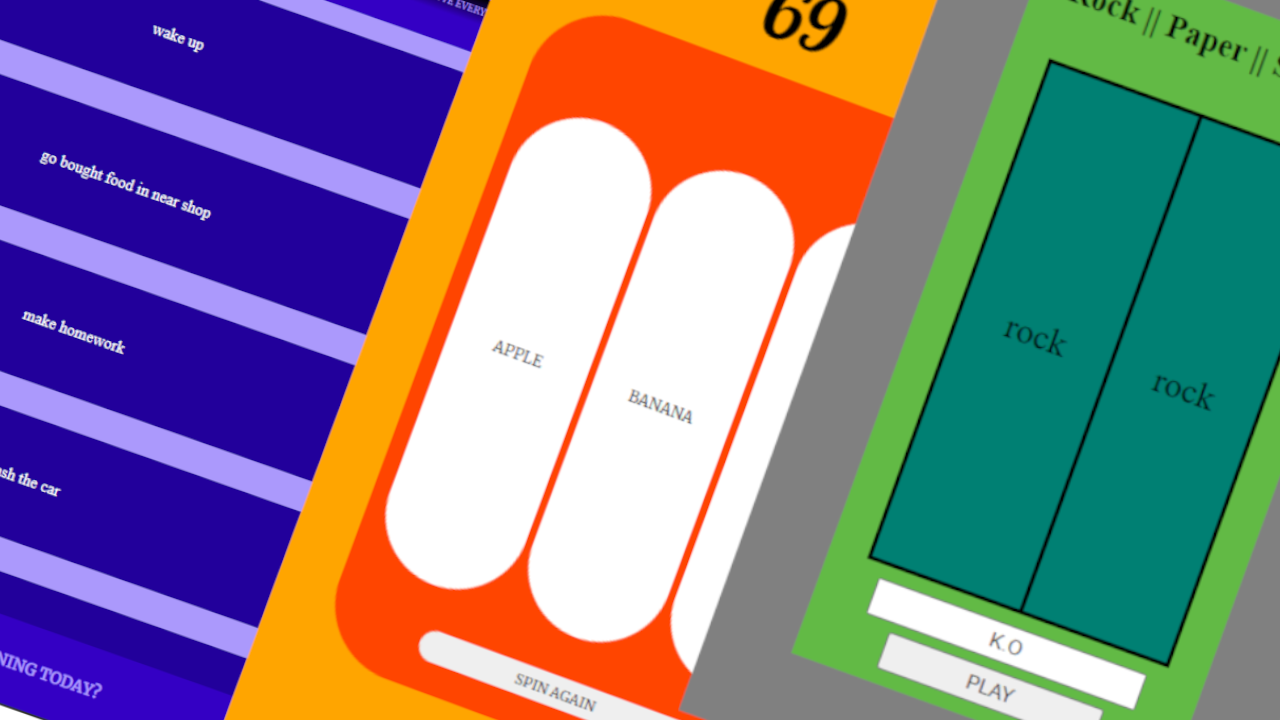
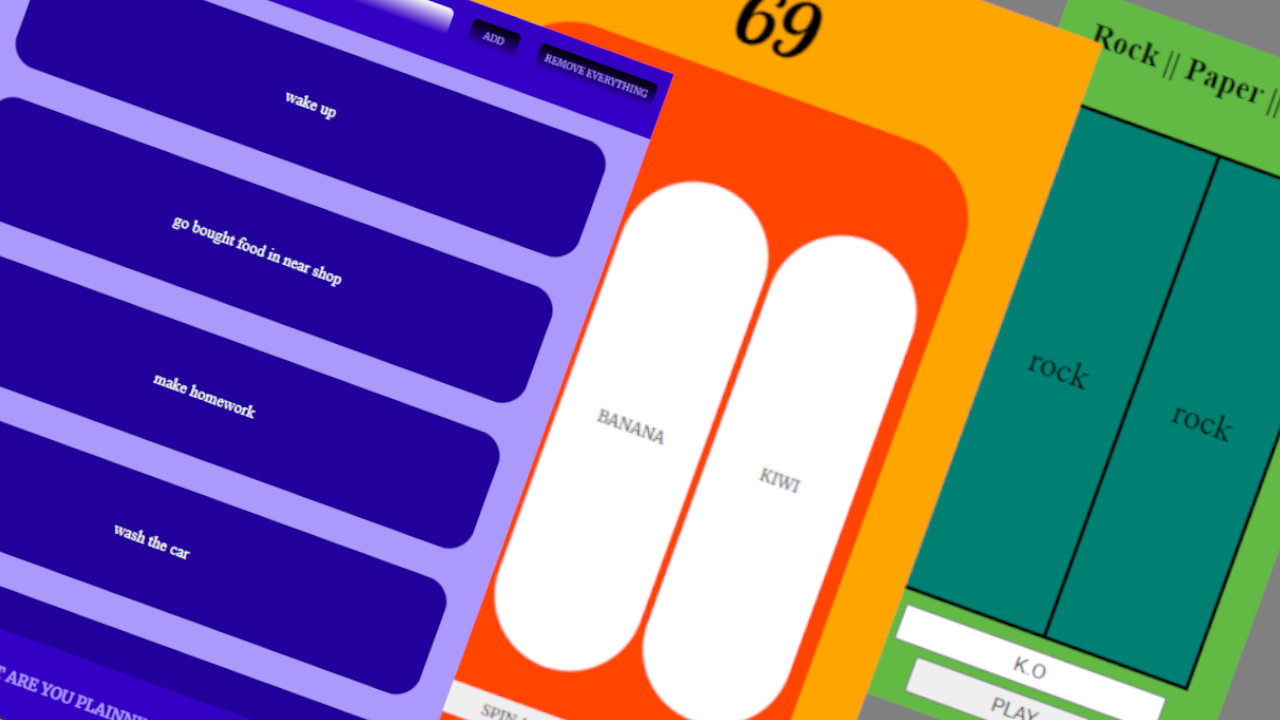
update

diff --git a/src/sections/sections_style/Projects.css b/src/sections/sections_style/Projects.css
@@ -92,7 +92,7 @@ span {
     position: relative;
     height:50%;
     width:100%;
-    background-image: linear-gradient(#0000009c, #030303dc 115%);
+    background-image: linear-gradient(#0000009c, #0b006b 115%);
 }
 
 #prj3 {
